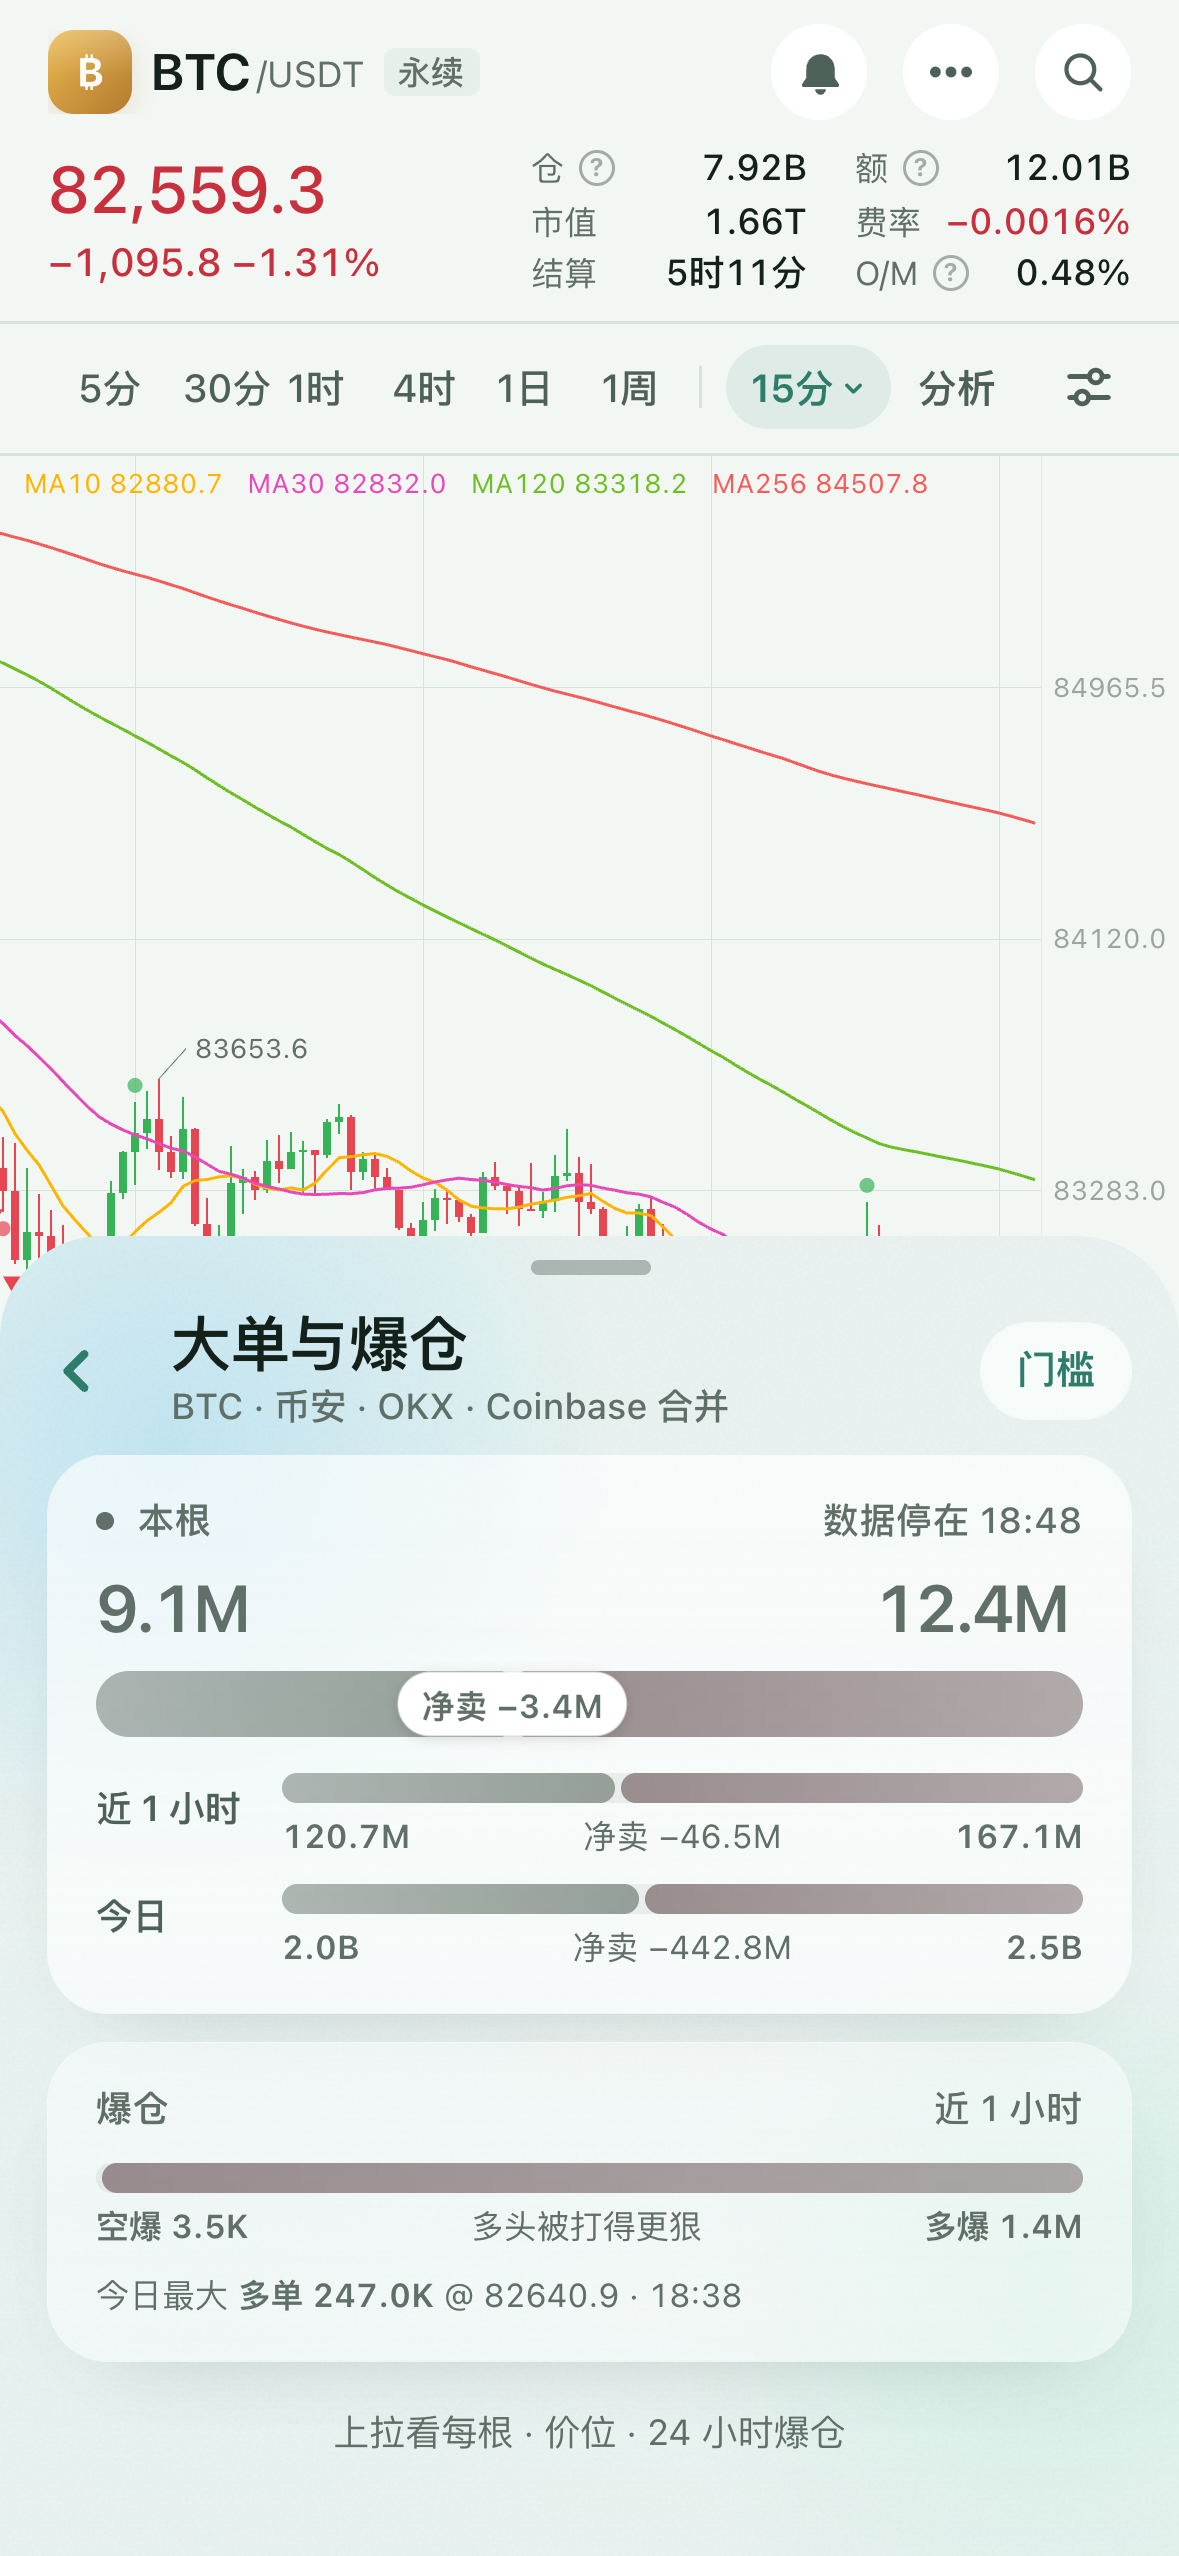
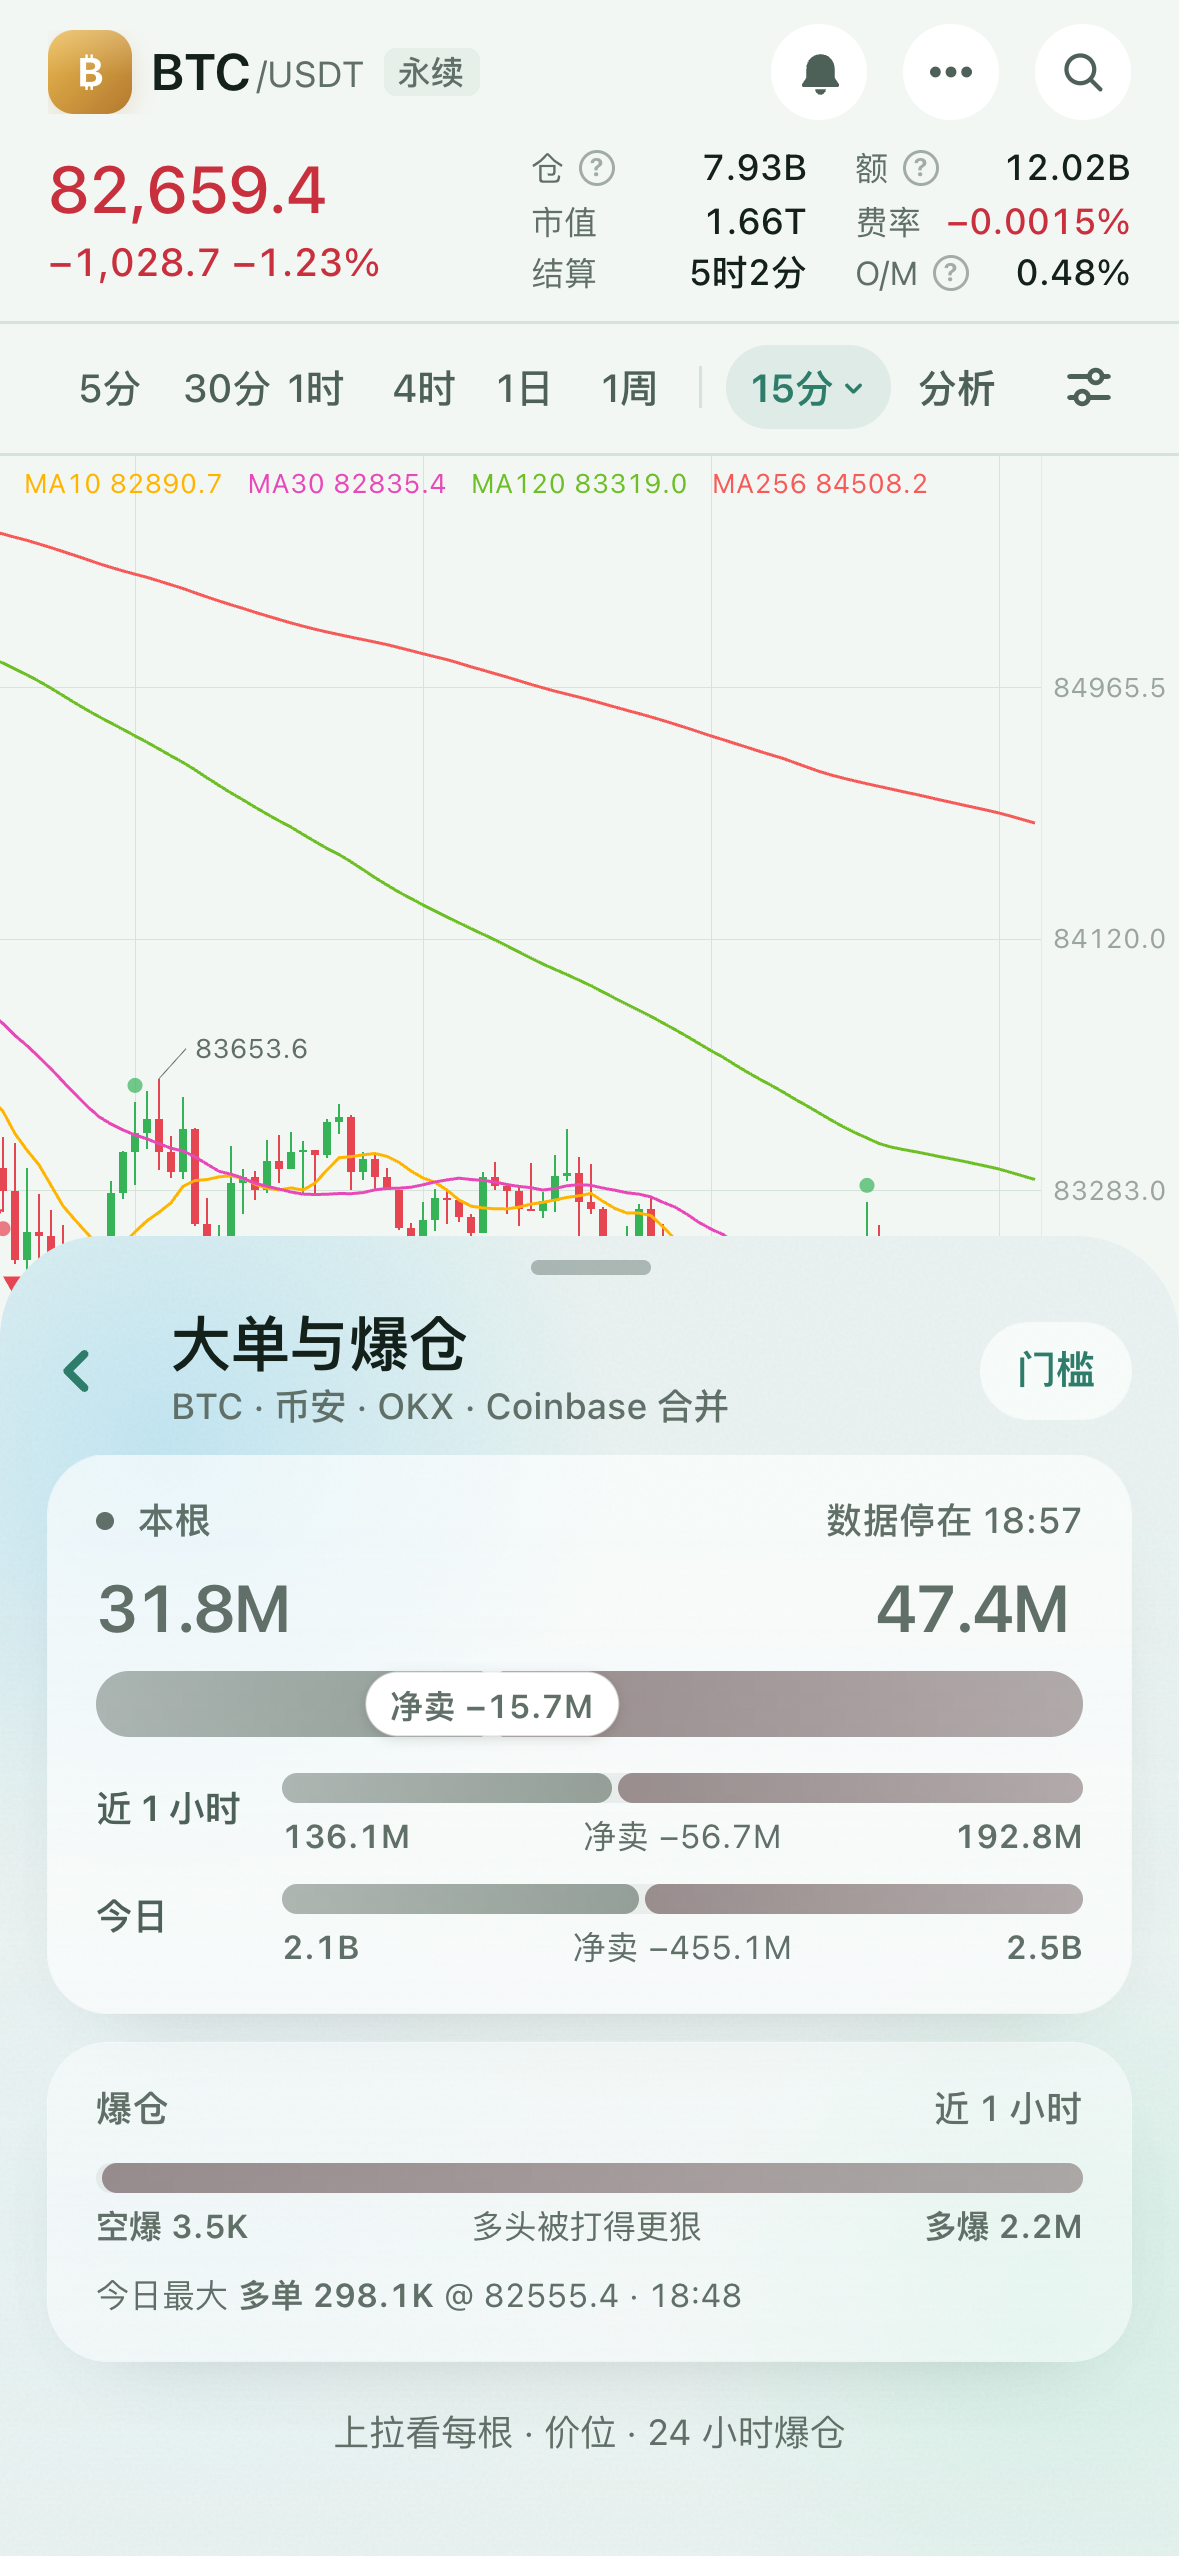
手机网页「大单与爆仓」两处验收偏差：价位梯有量但很短的条不再缩成 1px 细线，画成最窄 4px、圆角 3 的矮矩形（照网页版）；数据停了整卡文字一律 ink3（照原型 .stale .card），英雄金额、净药丸、爆仓最大一笔都锁 ink3；验收脚本加 BT_ONLY 只重截点名的图；重截 m-sage-light-full-bottom / m-state-stale

diff --git a/Web/src/m/styles/bigTrade.css b/Web/src/m/styles/bigTrade.css
@@ -80,6 +80,7 @@
 .bt-ladder .bl, .bt-ladder .br { position: relative; height: 12px }
 .bt-ladder .bl i { position: absolute; right: 0; top: 0; bottom: 0; border-radius: 6px 2px 2px 6px; background: color-mix(in srgb, var(--up) 78%, transparent) }
 .bt-ladder .br i { position: absolute; left: 0; top: 0; bottom: 0; border-radius: 2px 6px 6px 2px; background: color-mix(in srgb, var(--down) 78%, transparent) }
+.bt-ladder .bl i.tiny, .bt-ladder .br i.tiny { top: 2px; bottom: 2px; border-radius: 3px }
 .bt-ladder s { position: absolute; top: 50%; transform: translateY(-50%); text-decoration: none; font-size: 11px; color: var(--ink3); white-space: nowrap }
 .bt-ladder .bl s { right: calc(var(--w) + 5px) } .bt-ladder .br s { left: calc(var(--w) + 5px) }
 .bt-ladder .wall { position: absolute; top: 50%; transform: translateY(-50%); font: 600 11px/1 var(--font-ui); padding: 3px 6px; border-radius: 999px; color: #fff; white-space: nowrap }
@@ -101,7 +102,8 @@
 
 /* 数据停住 / 断线：数字转灰，签照旧 */
 .bt-sheet.stale .bt-amts b, .bt-sheet.stale .bt-ends b, .bt-sheet.stale .bt-mini b, .bt-sheet.stale .bt-vs .net, .bt-sheet.stale .bt-liqmax .v { color: var(--ink3) }
-.bt-sheet.stale .bt-ends b, .bt-sheet.stale .bt-amts b, .bt-sheet.stale .bt-mini b { color: var(--ink3) !important }
+.bt-sheet.stale .bt-card { color: var(--ink3) }
+.bt-sheet.stale .bt-ends b, .bt-sheet.stale .bt-amts b, .bt-sheet.stale .bt-amts b span, .bt-sheet.stale .bt-mini b, .bt-sheet.stale .bt-vs .net, .bt-sheet.stale .bt-liqmax .v { color: var(--ink3) !important }
 .bt-sheet.stale .bt-vs .b, .bt-sheet.stale .bt-vs .a, .bt-sheet.stale .bt-ladder i, .bt-sheet.stale .bt-u, .bt-sheet.stale .bt-d { filter: saturate(.15) opacity(.6) }
 .bt-sheet.stale .bt-live { background: var(--ink3); animation: none }
 

diff --git a/Web/src/m/pages/chart/bigTradeSheet.ts b/Web/src/m/pages/chart/bigTradeSheet.ts
@@ -221,8 +221,12 @@ export function barsCardHTML(bars: BarCol[], sel: number | null, flash: number |
 export function ladderCardHTML(rows: LadderRow[] | null): string {
   if (!rows || !rows.length) return ''
   // 条最长占这一侧的 62%：金额字贴在条外头，最长那条的字也不出卡片
-  const side = (cls: 'bl' | 'br', w0: number, v: number, wall: number | null, w = w0 * 0.62): string =>
-    `<div class="${cls}" style="--w:${w.toFixed(0)}%"><i style="width:${w.toFixed(0)}%"></i>${wall != null ? `<span class="wall">墙 ${esc(fmt(wall))}</span>` : w0 > 6 ? `<s>${esc(fmt(v))}</s>` : ''}</div>`
+  // 有量但条很短（不到 3%，约 4px）时不缩成细线：画成最窄 4px、圆角 3 的矮矩形（照网页版）
+  const side = (cls: 'bl' | 'br', w0: number, v: number, wall: number | null, w = w0 * 0.62): string => {
+    const tiny = v > 0 && w < 3
+    const ww = v > 0 ? `max(4px,${w.toFixed(1)}%)` : '0%'
+    return `<div class="${cls}" style="--w:${ww}"><i${tiny ? ' class="tiny"' : ''} style="width:${ww}"></i>${wall != null ? `<span class="wall">墙 ${esc(fmt(wall))}</span>` : w0 > 6 ? `<s>${esc(fmt(v))}</s>` : ''}</div>`
+  }
   return `<div class="bt-card" data-card="ladder"><h5>价位<span class="rt">现价上下五档 · 近 1 小时</span></h5><div class="bt-ladder">${rows.map(r =>
     side('bl', r.bw, r.buy, r.bidWall) + `<div class="p${r.now ? ' now' : ''}">${esc(r.price)}</div>` + side('br', r.sw, r.sell, r.askWall)).join('')}</div></div>`
 }

diff --git a/Web/tests/m-bigtrade-sheet.test.ts b/Web/tests/m-bigtrade-sheet.test.ts
@@ -92,6 +92,15 @@ describe('大单与爆仓 · 片段', () => {
     expect(barsCardHTML([], null, null)).toBe('')
   })
 
+  it('价位梯：有量但很短的条画成最窄 4px、圆角 3 的矮矩形，不缩成细线；没量的不画', () => {
+    const rows = ladderRows({ buy: [{ price: 100, usd: 1e6 }, { price: 100.5, usd: 1e3 }], sell: [] } as never, 100, 0.5, { ask: null, bid: null })
+    const lad = ladderCardHTML(rows)
+    const tiny = rows.find(r => r.buy > 0 && r.buy < 1e4)!
+    expect(tiny.bw * 0.62).toBeLessThan(3)
+    expect(lad).toContain('<i class="tiny" style="width:max(4px,')
+    expect(lad.match(/class="tiny"/g)!.length).toBe(1)
+    expect(lad).toContain('<i style="width:0%"></i>')
+  })
   it('价位梯与 24 小时爆仓：墙写成「墙 2.0M」，96 格、最大一笔一行', () => {
     const rows = ladderRows({ buy: [{ price: 100, usd: 1e6 }], sell: [] } as never, 100, 0.5, { ask: null, bid: { price: 99, usd: 2e6 } as never })
     const lad = ladderCardHTML(rows)
